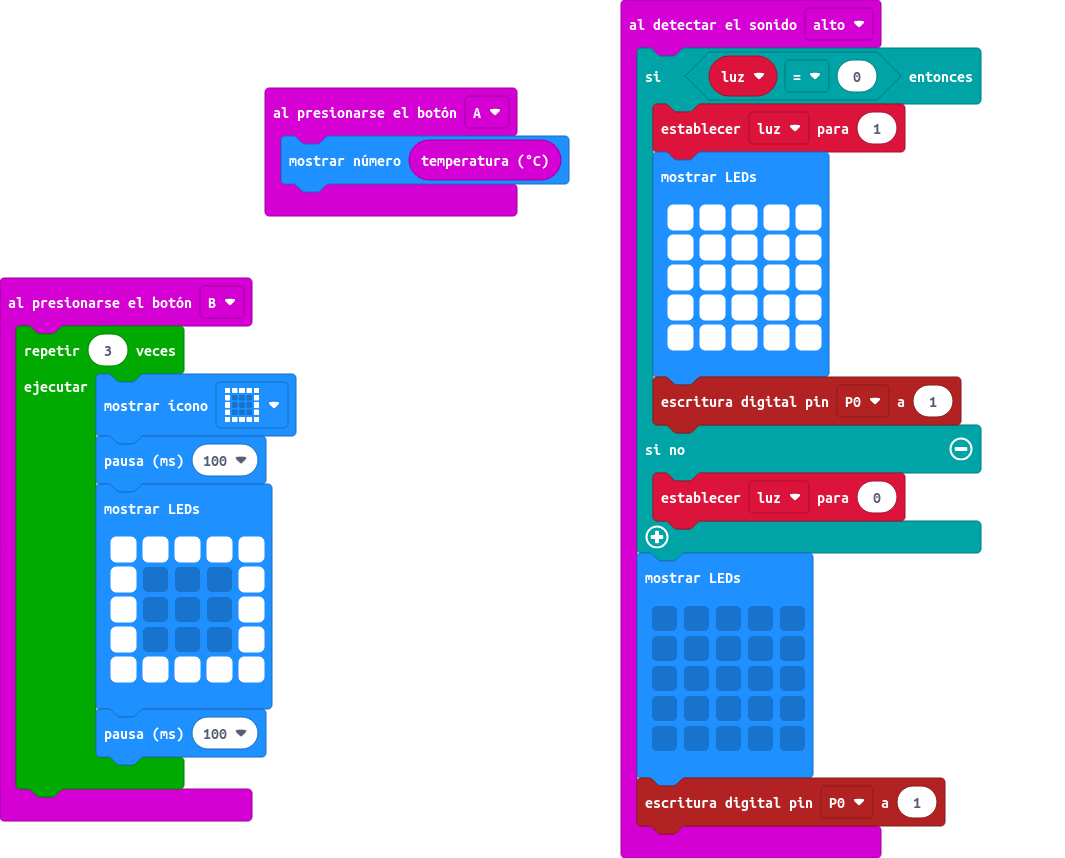
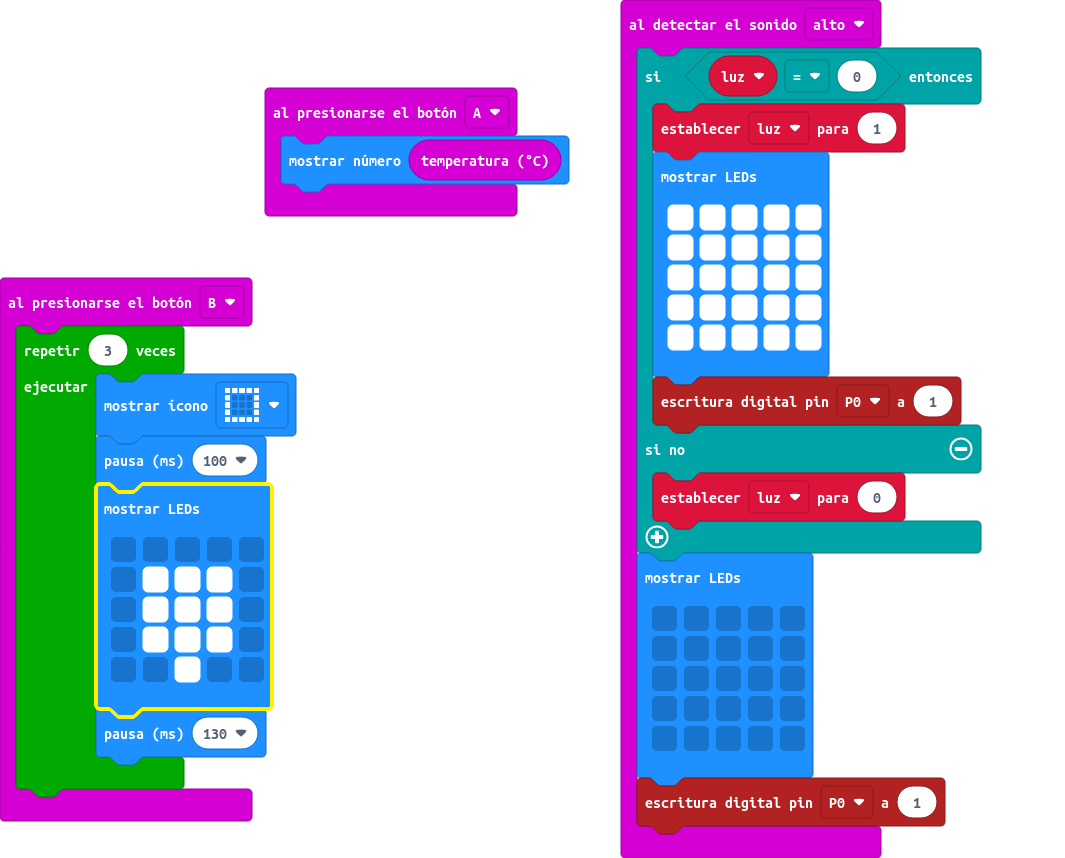
corregido icono

Changed region(s): [[0.062, 0.5758, 0.2789, 0.8485], [0.093, 0.5455, 0.2479, 0.5758]]

diff --git a/main.ts b/main.ts
@@ -30,12 +30,12 @@ input.onButtonPressed(Button.B, function () {
         basic.showIcon(IconNames.Square)
         basic.pause(100)
         basic.showLeds(`
-            # # # # #
-            # . . . #
-            # . . . #
-            # . . . #
-            # # # # #
+            . . . . .
+            . # # # .
+            . # # # .
+            . # # # .
+            . . # . .
             `)
-        basic.pause(100)
+        basic.pause(130)
     }
 })
